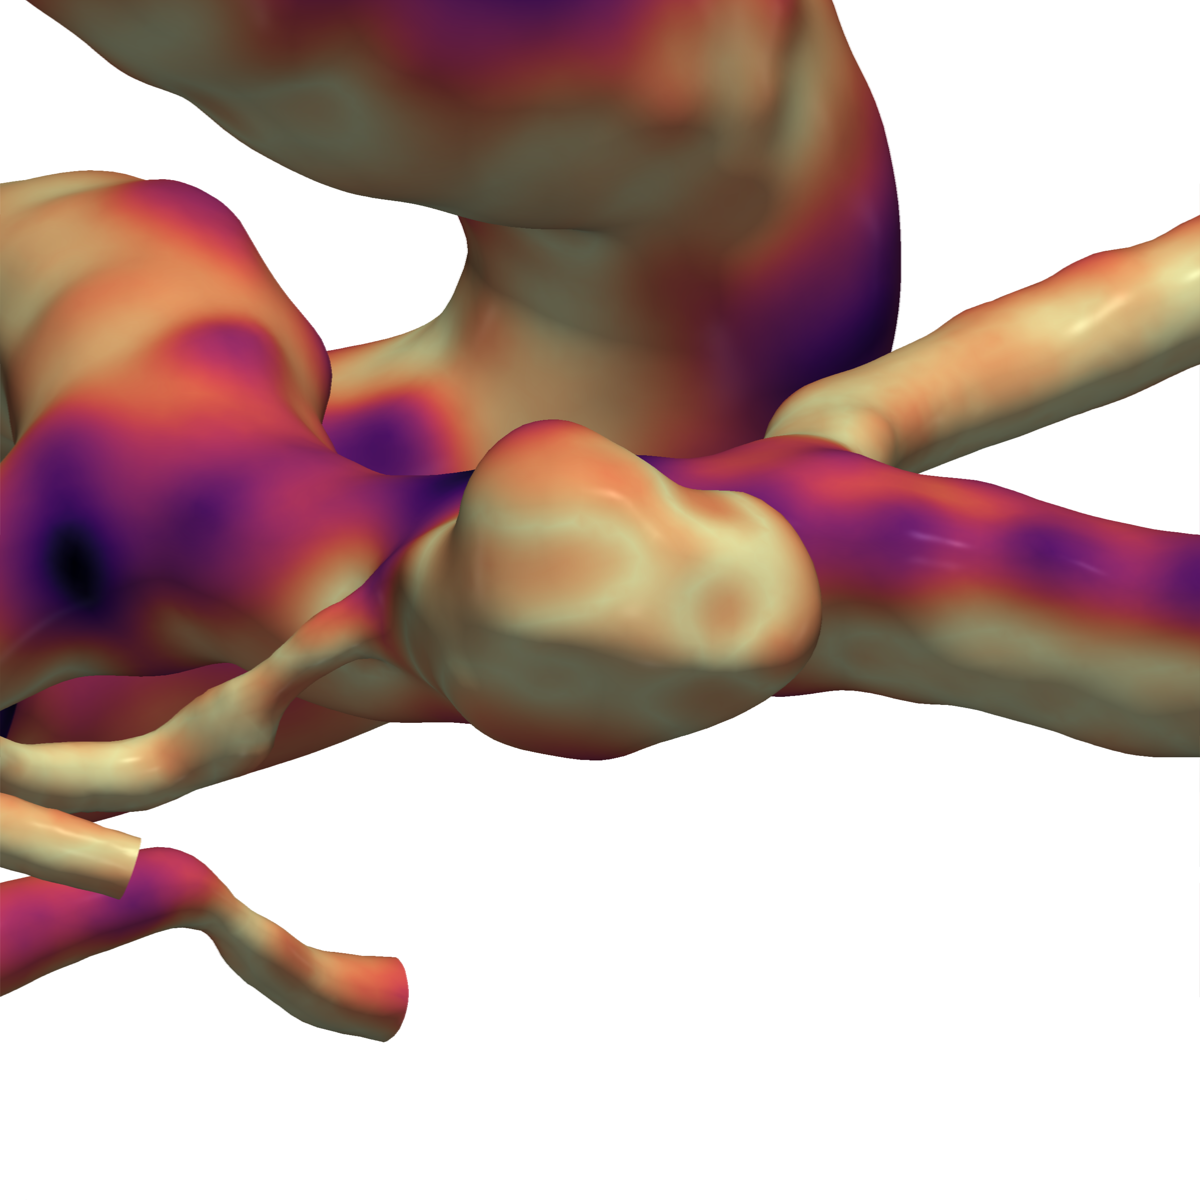
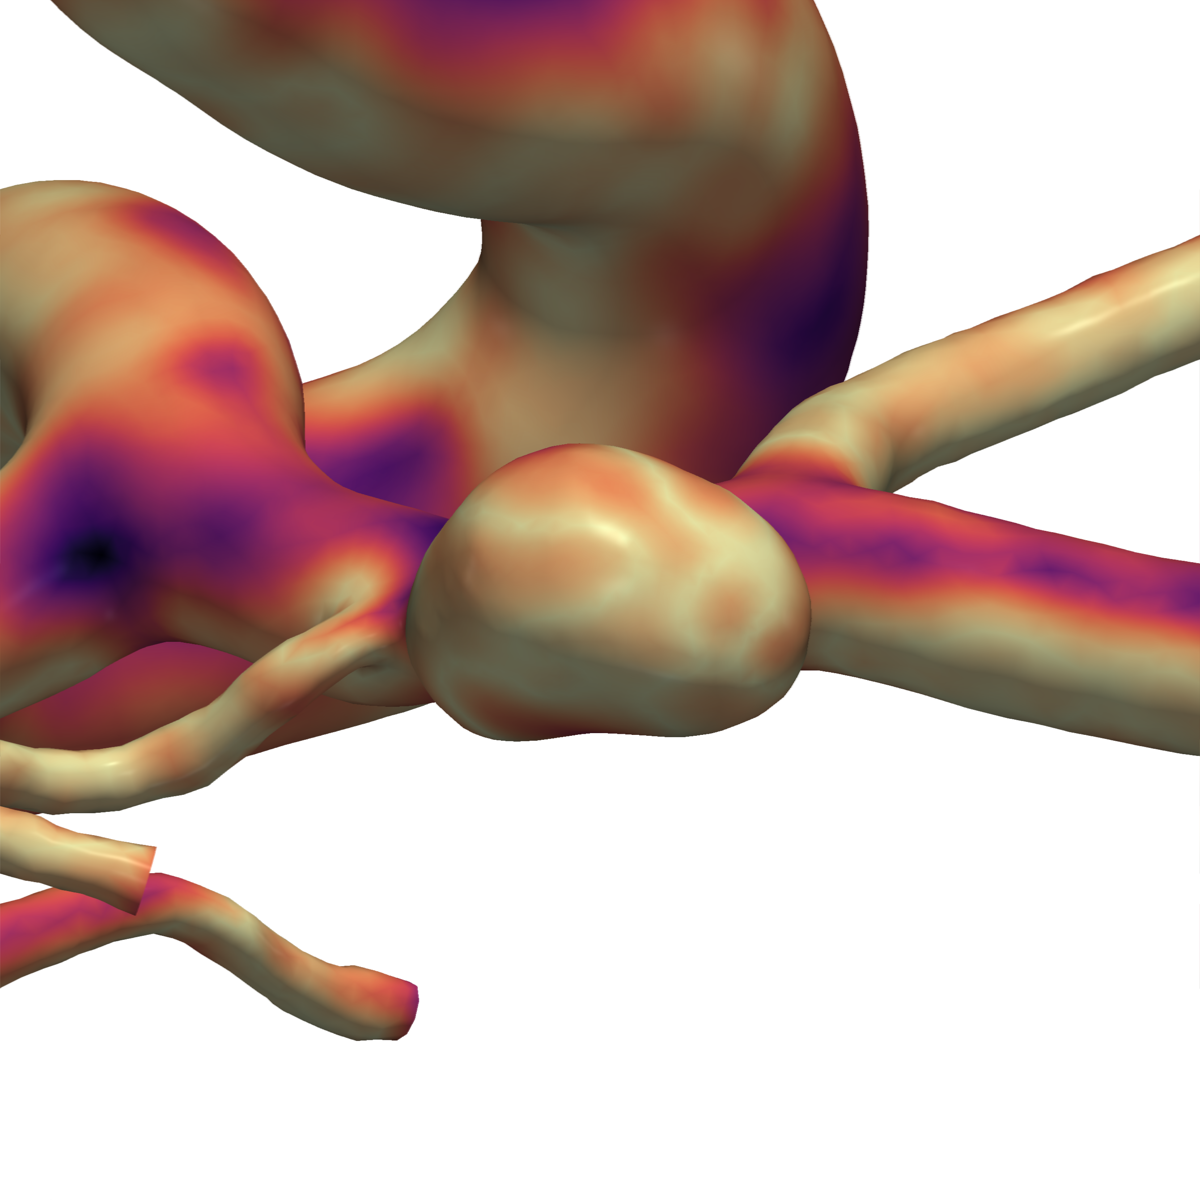
Template figures: colour the finished template by its distance to the GT, not the GT by its distance to the template

diff --git a/documentation/data prep/data_preparation.tex b/documentation/data prep/data_preparation.tex
@@ -276,13 +276,13 @@ As for the GT, every template must pass hard gates: one connected component, a c
     \includegraphics[width=0.325\textwidth]{figures/tmA_sph.png}\hfill
     \includegraphics[width=0.325\textwidth]{figures/tmA_dist.png}\\[1mm]
     \hfill\includegraphics[width=0.325\textwidth]{figures/cbar_dist_06.pdf}
-    \caption{Template creation on the example vessel. Left: the GT with the detected aneurysm (sac and neck lip) in yellow. Middle: the template (translucent) with the three fitted spheres. Right: the GT surface coloured by the distance of each vertex to the template surface, measured to the nearest point of the template triangles. The scale ends at 0.6\,mm and saturates above it. Cream is below 0.1\,mm. On the sac the median distance is 0.07\,mm and the 95th percentile 0.23\,mm. On the parent it is larger (up to 0.9\,mm), since the 5\,mm radius knots deliberately ignore local calibre changes, which the network learns in the second stage.}
+    \caption{Template creation on the example vessel. Left: the GT with the detected aneurysm (sac and neck lip) in yellow. Middle: the template (translucent) with the three fitted spheres. Right: the finished template, smoothed, meshed and cut at the ostia, coloured by the distance of each of its vertices to the GT surface. The scale ends at 0.6\,mm and saturates above it. Cream is below 0.1\,mm. On the sac the median distance is 0.06\,mm and the 95th percentile 0.20\,mm. On the parent it is larger (up to 0.9\,mm), since the 5\,mm radius knots deliberately ignore local calibre changes, which the network learns in the second stage.}
     \label{fig:dp_template}
 \end{figure}
 
-For the example vessel the fitted spheres have radii of 1.07, 1.16 and 1.09\,mm, and the template has 23\,052 vertices against the GT's 91\,395. We measure the distance from every GT vertex to the nearest point of the template surface, which is the stricter direction because it also sees sac wall that the template does not reach. Over the whole surface it has a median of 0.15\,mm and a 95th percentile of 0.47\,mm. On the sac alone the median is 0.07\,mm and the 95th percentile 0.23\,mm. The largest deviations lie on the parent artery, where the 5\,mm radius knots deliberately ignore local bulges (Figure~\ref{fig:dp_template}). Across the dataset, a median of 5.9\% of the GT wall was detected as aneurysm, and the fitted sphere radii have a median of 1.58\,mm (5--95\%: 0.68--3.96\,mm).
+For the example vessel the fitted spheres have radii of 1.07, 1.16 and 1.09\,mm, and the template has 23\,052 vertices against the GT's 91\,395. We measure the distance from every vertex of the finished template to the nearest point of the GT surface. Over the whole template it has a median of 0.12\,mm and a 95th percentile of 0.42\,mm. On the sac alone the median is 0.06\,mm and the 95th percentile 0.20\,mm. Measured the other way, from the GT vertices to the template, which also sees sac wall that the template does not reach, the figures on the sac are 0.07 and 0.23\,mm. The largest deviations lie on the parent artery, where the 5\,mm radius knots deliberately ignore local bulges (Figure~\ref{fig:dp_template}). Across the dataset, a median of 5.9\% of the GT wall was detected as aneurysm, and the fitted sphere radii have a median of 1.58\,mm (5--95\%: 0.68--3.96\,mm).
 
-Three spheres are a coarse description, and they fit the sac closely only when the sac is roughly round. Over the dataset, the median per-case median distance of the sac wall to the template is 0.13\,mm. In 10\% of the cases the median exceeds 0.30\,mm, and in 11 cases (1.5\%) it exceeds 0.5\,mm. The worst cases are giant sacs with calibres of several millimetres, and sacs that are elongated, flattened or multi-lobed, which three spheres of a common smooth minimum cannot follow. Figure~\ref{fig:dp_template_limit} shows one of them. The sac is a tall, tilted horn. The sphere penalty keeps every sphere inside the GT wall, so the fit settles on two large spheres stacked along the long axis and a small one near the tip, and the broad face of the sac sits up to 2--3\,mm outside the template (median 0.61\,mm, 95th percentile 1.95\,mm). We accept this, since the template is only the starting point of the second stage, but it also means that the network has to learn the shape of such sacs from the deformation, not from the template.
+Three spheres are a coarse description, and they fit the sac closely only when the sac is roughly round. Over the dataset, the median per-case median distance of the sac wall to the template is 0.13\,mm. In 10\% of the cases the median exceeds 0.30\,mm, and in 11 cases (1.5\%) it exceeds 0.5\,mm. The worst cases are giant sacs with calibres of several millimetres, and sacs that are elongated, flattened or multi-lobed, which three spheres of a common smooth minimum cannot follow. Figure~\ref{fig:dp_template_limit} shows one of them. The sac is a tall, tilted horn. The sphere penalty keeps every sphere inside the GT wall, so the fit settles on two large spheres stacked along the long axis and a small one near the tip, and the broad face of the sac sits up to 2--3\,mm outside the template. The sac surface of the template lies a median of 0.66\,mm from the GT wall (95th percentile 2.6\,mm, maximum 4.3\,mm), and the GT wall lies a median of 0.61\,mm from the template (95th percentile 1.95\,mm). We accept this, since the template is only the starting point of the second stage, but it also means that the network has to learn the shape of such sacs from the deformation, not from the template.
 
 \begin{figure}[H]
     \centering
@@ -290,7 +290,7 @@ Three spheres are a coarse description, and they fit the sac closely only when t
     \includegraphics[width=0.325\textwidth]{figures/tmB_sph.png}\hfill
     \includegraphics[width=0.325\textwidth]{figures/tmB_dist.png}\\[1mm]
     \hfill\includegraphics[width=0.325\textwidth]{figures/cbar_dist_20.pdf}
-    \caption{A sac that three spheres cannot approximate. Left: the GT with the detected sac in yellow. Middle: the template with the three fitted spheres (radii 8.3, 4.2 and 7.6\,mm). Right: the GT coloured by its distance to the template, on a scale that ends at 2\,mm. The elongated, tilted sac is outside the spheres over most of its broad face and at its tip.}
+    \caption{A sac that three spheres cannot approximate. Left: the GT with the detected sac in yellow. Middle: the template with the three fitted spheres (radii 8.3, 4.2 and 7.6\,mm). Right: the finished template coloured by its distance to the GT, on a scale that ends at 2\,mm. The elongated, tilted sac is outside the spheres over most of its broad face and at its tip, and the spheres themselves bulge away from the wall between the rings where they touch it.}
     \label{fig:dp_template_limit}
 \end{figure}
 

diff --git a/documentation/data prep/scripts/fix9.py b/documentation/data prep/scripts/fix9.py
@@ -1,0 +1,15 @@
+p='C:/dev/UQ/aneux/documentation/data prep/data_preparation.tex'
+s=open(p,encoding='utf-8',newline='').read()
+B=chr(92); mm=B+',mm'
+def rep(a,b):
+    global s
+    assert s.count(a)==1,(s.count(a),a[:60]); s=s.replace(a,b)
+rep("Right: the GT surface coloured by the distance of each vertex to the template surface, measured to the nearest point of the template triangles. The scale ends at 0.6"+mm+" and saturates above it. Cream is below 0.1"+mm+". On the sac the median distance is 0.07"+mm+" and the 95th percentile 0.23"+mm+". On the parent it is larger (up to 0.9"+mm+"),",
+    "Right: the finished template, smoothed, meshed and cut at the ostia, coloured by the distance of each of its vertices to the GT surface. The scale ends at 0.6"+mm+" and saturates above it. Cream is below 0.1"+mm+". On the sac the median distance is 0.06"+mm+" and the 95th percentile 0.20"+mm+". On the parent it is larger (up to 0.9"+mm+"),")
+rep("We measure the distance from every GT vertex to the nearest point of the template surface, which is the stricter direction because it also sees sac wall that the template does not reach. Over the whole surface it has a median of 0.15"+mm+" and a 95th percentile of 0.47"+mm+". On the sac alone the median is 0.07"+mm+" and the 95th percentile 0.23"+mm+".",
+    "We measure the distance from every vertex of the finished template to the nearest point of the GT surface. Over the whole template it has a median of 0.12"+mm+" and a 95th percentile of 0.42"+mm+". On the sac alone the median is 0.06"+mm+" and the 95th percentile 0.20"+mm+". Measured the other way, from the GT vertices to the template, which also sees sac wall that the template does not reach, the figures on the sac are 0.07 and 0.23"+mm+".")
+rep("and the broad face of the sac sits up to 2--3"+mm+" outside the template (median 0.61"+mm+", 95th percentile 1.95"+mm+").",
+    "and the broad face of the sac sits up to 2--3"+mm+" outside the template. The sac surface of the template lies a median of 0.66"+mm+" from the GT wall (95th percentile 2.6"+mm+", maximum 4.3"+mm+"), and the GT wall lies a median of 0.61"+mm+" from the template (95th percentile 1.95"+mm+").")
+rep("Right: the GT coloured by its distance to the template, on a scale that ends at 2"+mm+". The elongated, tilted sac is outside the spheres over most of its broad face and at its tip.",
+    "Right: the finished template coloured by its distance to the GT, on a scale that ends at 2"+mm+". The elongated, tilted sac is outside the spheres over most of its broad face and at its tip, and the spheres themselves bulge away from the wall between the rings where they touch it.")
+open(p,'w',encoding='utf-8',newline='').write(s); print('ok')

diff --git a/documentation/data prep/scripts/r_tm2.py b/documentation/data prep/scripts/r_tm2.py
@@ -25,9 +25,11 @@ if 'sph' in parts:
         p.add_mesh(pv.Sphere(radius=float(Rr),center=C,theta_resolution=40,phi_resolution=40),color=col,opacity=0.6,smooth_shading=True)
     cam(p); p.screenshot(f'{OUT}/{tag}_sph.png'); p.close()
 if 'dist' in parts:
-    # distance of every GT vertex to the template surface: the stricter, GT-side direction, so a part of the sac the spheres miss shows up
-    uraw['d']=sdist(uraw,t.extract_surface(algorithm='dataset_surface'))
-    d=np.asarray(uraw['d']); s_=np.asarray(uraw['sac'])>0
-    print('GT->template all med %.3f p95 %.3f | sac med %.3f p90 %.3f p95 %.3f max %.3f'%(np.median(d),np.percentile(d,95),np.median(d[s_]),np.percentile(d[s_],90),np.percentile(d[s_],95),d[s_].max()))
-    p=plotter(size,size); p.add_mesh(uraw.triangulate(),scalars='d',cmap='magma_r',clim=[0,clim],smooth_shading=True,show_scalar_bar=False,specular=0.2); cam(p); p.screenshot(f'{OUT}/{tag}_dist.png'); p.close()
+    # the finished template (smoothed, meshed, ostia cut), coloured by each vertex's distance to the nearest point of the GT surface
+    gts=uraw.extract_surface(algorithm='dataset_surface')
+    t['d']=sdist(t,gts); d=np.asarray(t['d'])
+    Pt=np.asarray(t.points); sdf=np.min([np.linalg.norm(Pt-C,axis=1)-Rr for C,Rr in zip(sp['centers'],sp['radii'])],axis=0)
+    s_=sdf<0.25
+    print('template->GT all med %.3f p95 %.3f max %.3f | sac region (%d verts) med %.3f p90 %.3f p95 %.3f max %.3f'%(np.median(d),np.percentile(d,95),d.max(),s_.sum(),np.median(d[s_]),np.percentile(d[s_],90),np.percentile(d[s_],95),d[s_].max()))
+    p=plotter(size,size); p.add_mesh(t,scalars='d',cmap='magma_r',clim=[0,clim],smooth_shading=True,show_scalar_bar=False,specular=0.2); cam(p); p.screenshot(f'{OUT}/{tag}_dist.png'); p.close()
 print(case,'ps',round(ps,1),'ext',round(ext,1))

diff --git a/documentation/data prep/scripts/cbar2.py b/documentation/data prep/scripts/cbar2.py
@@ -3,5 +3,5 @@ plt.rcParams.update({'font.family':'serif','font.size':10})
 for vmax,name,ticks in ((0.6,'cbar_dist_06',[0,0.1,0.2,0.3,0.4,0.5,0.6]),(2.0,'cbar_dist_20',[0,0.5,1.0,1.5,2.0])):
     fig,ax=plt.subplots(figsize=(3.4,0.7)); fig.subplots_adjust(bottom=0.5,top=0.9,left=0.05,right=0.95)
     cb=mpl.colorbar.ColorbarBase(ax,cmap=mpl.cm.magma_r,norm=mpl.colors.Normalize(0,vmax),orientation='horizontal',extend='max')
-    cb.set_ticks(ticks); cb.set_label('distance from GT to template [mm]',fontsize=10); cb.ax.tick_params(labelsize=9)
+    cb.set_ticks(ticks); cb.set_label('distance from template to GT [mm]',fontsize=10); cb.ax.tick_params(labelsize=9)
     fig.savefig(f'C:/dev/UQ/aneux/documentation/data prep/figures/{name}.pdf',bbox_inches='tight',pad_inches=0.04)
